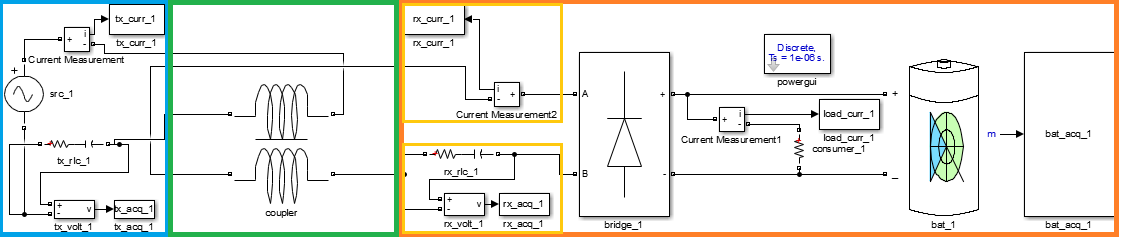
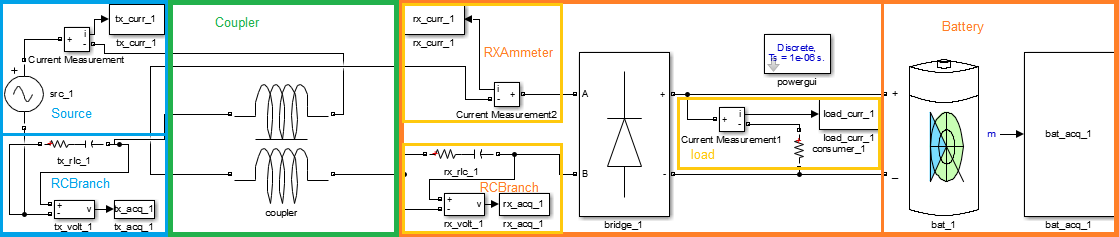
Simulink: starting transmitter

diff --git a/simulationModels/Transmitter.m b/simulationModels/Transmitter.m
@@ -1,0 +1,34 @@
+classdef Transmitter
+	properties (Access = private)
+		source
+        rc
+	end
+	methods
+		function [obj, hierarchy] = Transmitter(systemName, hierarchy, index)
+			% circuit area division
+			hierarchy = verticalCut(hierarchy, [0.5,0.1,0.4]);
+            hierarchy.children{1} = horizontalCut(hierarchy.children{1}, [0.8,0.2]);
+            hierarchy.children{3} = horizontalCut(hierarchy.children{3}, [0.2,0.8]);
+			
+			% building sub-components
+			obj.source = Source(systemName, hierarchy.children{1}.children{1}, index);
+			obj.rc = RCBranch(systemName, hierarchy.children{3}.children{2}, 'tx', index);
+
+			% connecting sub-components
+			add_line(systemName,...
+				obj.source.negativeHandler(),...
+				obj.rc.positiveHandler(),...
+				'Autorouting', 'on'...
+			);
+			
+		end
+		
+		function hnd = positiveHandler(obj)
+			hnd = obj.source.positiveHandler();
+		end
+		
+		function hnd = negativeHandler(obj)
+			hnd = obj.rc.negativeHandler();
+		end
+	end
+end

diff --git a/simulationModels/RCBranch.m b/simulationModels/RCBranch.m
@@ -7,7 +7,7 @@ classdef RCBranch
 		resistance
 	end
 	methods
-		function [rc, hierarchy] = RCBranch(systemName, hierarchy, prefix, index)
+		function rc = RCBranch(systemName, hierarchy, prefix, index)
 			% circuit area division
 			hierarchy = verticalCut(hierarchy, [0.33,0.33,0.34]);
 			hierarchy.children{1} = horizontalCut(hierarchy.children{1}, [0.2,0.6,0.2]);

diff --git a/simulationModels/Source.m b/simulationModels/Source.m
@@ -7,7 +7,7 @@ classdef Source
 		voltage
 	end
 	methods
-		function [source, hierarchy] = Source(systemName, hierarchy, index)
+		function source = Source(systemName, hierarchy, index)
 			% circuit area division
 			hierarchy = horizontalCut(hierarchy, [0.25,0.125,0.25,0.125,0.25]);
 			hierarchy.children{1} = verticalCut(hierarchy.children{1}, [0.7,0.3]);
